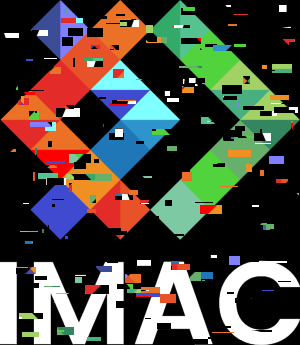
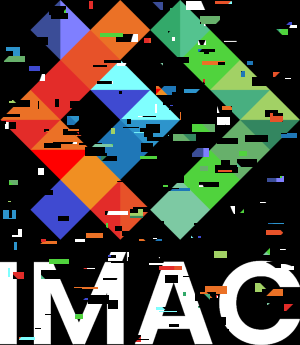
add convolution

diff --git a/src/main.cpp b/src/main.cpp
@@ -170,14 +170,14 @@ void circle(sil::Image &image, int const &rayon, float const &thickess, int cons
     }
 }
 
-void rosace(sil::Image &image, int const &rayon, int const &thinkness)
+void rosace(sil::Image &image, int const &rayon, int const &thinkness, int nbCircle)
 {
     int const center_x = image.width() / 2;
     int const center_y = image.height() / 2;
     circle(image, rayon, thinkness, center_x, center_y);
-    for (int i{0}; i < 6; i++)
+    for (int i{0}; i < nbCircle; i++)
     {
-        circle(image, rayon, thinkness, center_x + rayon * std::cos(i * (M_PI / 3)), center_x + rayon * std::sin(i * (M_PI / 3)));
+        circle(image, rayon, thinkness, center_x + rayon * std::cos(i * (M_PI * 2 / nbCircle)), center_x + rayon * std::sin(i * (M_PI * 2 / nbCircle)));
     }
 }
 
@@ -333,15 +333,113 @@ void dithering(sil::Image &image)
             float bayer_value = bayer_matrix_4x4[y % bayer_n][x % bayer_n];
             float output_color = origin_color + (1 * bayer_value);
 
-            if (output_color <  1/2.f){
-                image.pixel(x,y) = glm::vec3(0);
-            }else{
-                image.pixel(x,y) = glm::vec3(1);
+            if (output_color < 1 / 2.f)
+            {
+                image.pixel(x, y) = glm::vec3(0);
             }
-            
+            else
+            {
+                image.pixel(x, y) = glm::vec3(1);
+            }
         }
     }
 }
+
+[[nodiscard]] sil::Image convolution(sil::Image const &image, std::vector<std::vector<float>> const& kernel)
+{
+    sil::Image blurImage{image};
+
+    float kernelTotal{0};
+    for (std::vector<float> line : kernel)
+    {
+        for (float number : line)
+        {
+            kernelTotal += number;
+        }
+    }
+
+    for (int x{0}; x < image.width(); x++)
+    {
+        for (int y{0}; y < image.height(); y++)
+        {
+            // prendre les 9 pixels autour de mon pixel x,y dans image
+            // et faire la couleur moyenne
+
+            glm::vec3 color{0};
+            int count{0};
+            int debug{-(static_cast<int>(kernel.size()) / 2)};
+            for (int i{-(static_cast<int>(kernel.size()) / 2)}; i < static_cast<int>(kernel.size()); i++)
+            {
+                for (int j{-(static_cast<int>(kernel[0].size()) / 2)}; j < static_cast<int>(kernel[0].size()); j++)
+                {
+                    int coordX = x + i;
+                    int coordY = y + j;
+                    if (coordX < image.width() && coordX > 0 && coordY < image.height() && coordY > 0 && j + static_cast<int>(kernel[0].size()) / 2 < kernel[0].size() && i + static_cast<int>(kernel.size()) / 2 < kernel.size())
+                    {
+                        color += image.pixel(coordX, coordY) * kernel.at(i + static_cast<int>(kernel.size()) / 2).at(j + static_cast<int>(kernel[0].size()) / 2);
+                    }
+                    else
+                    {
+                        blurImage.pixel(x, y) += glm::vec3(0);
+                    }
+                }
+            }
+            if (kernelTotal != 0)
+            {
+                color = color / kernelTotal;
+            }
+            blurImage.pixel(x, y) = color;
+        }
+    }
+    return blurImage;
+}
+
+std::vector<std::vector<float>> generateKernelBlurVertical(int size)
+{
+    std::vector<std::vector<float>> kernel(size, std::vector<float>(1, 1.f / size));
+    return kernel;
+}
+
+std::vector<std::vector<float>> generateKernelBlurHorizontal(int size)
+{
+    std::vector<std::vector<float>> kernel(1, std::vector<float>(size, 1.f / size));
+    return kernel;
+}
+
+[[nodiscard]] sil::Image differenceGaussian(sil::Image const& image , int sigma1, int sigma2){
+    sil::Image gaussian1{image};
+    sil::Image gaussian2{image};
+    sil::Image result{image.width() , image.height()};
+
+    gaussian1 = convolution(gaussian1, generateKernelBlurHorizontal(sigma1));
+    gaussian1 = convolution(gaussian1, generateKernelBlurVertical(sigma1));
+
+    gaussian2 = convolution(gaussian2, generateKernelBlurHorizontal(sigma2));
+    gaussian2 = convolution(gaussian2, generateKernelBlurVertical(sigma2));
+
+    for (int x{0}; x < image.width(); x++)
+    {
+        for (int y{0}; y < image.height(); y++)
+        {
+            result.pixel(x,y)=  gaussian1.pixel(x,y) - gaussian2.pixel(x,y);
+        }
+    }
+    //tout les pixels qui sont noir on les met en blanc et les pixels en nuance de gris en noir
+    for (glm::vec3 &color : result.pixels())
+    {
+        if (color.r < 0.019f)
+        {
+            color = glm::vec3(1);
+        }
+        else
+        {
+            color = glm::vec3(0);
+        }
+    }
+    
+    return result;
+}
+
 
 int main()
 {
@@ -410,7 +508,7 @@ int main()
     }
     {
         sil::Image blackImage{500, 500};
-        rosace(blackImage, 100, 500);
+        rosace(blackImage, 100, 500, 6);
         blackImage.save("output/exercice13.png");
     }
     {
@@ -439,5 +537,48 @@ int main()
         sil::Image copy{photo};
         dithering(copy);
         copy.save("output/exercice18.png");
+    }
+    {
+        std::vector<std::vector<float>> kernelOutline = {
+            {-1, -1, -1},
+            {-1, 8, -1},
+            {-1, -1, -1}};
+
+        std::vector<std::vector<float>> kernelBlur3x3 = {{1, 2, 1},
+                                                         {2, 4, 2},
+                                                         {1, 2, 1}};
+
+        std::vector<std::vector<float>> kernelEmboss = {{-2, -1, 1},
+                                                        {-1, 1, 1},
+                                                        {0, 1, 2}};
+
+        std::vector<std::vector<float>> kernelSharpen = {{0, -1, 0},
+                                                         {-1, 5, 1},
+                                                         {0, -1, 0}};
+
+        std::vector<std::vector<float>> kernelBlur5x5 = {{1, 4, 6, 4, 1},
+                                                         {4, 16, 24, 16, 4},
+                                                         {6, 24, 36, 24, 6},
+                                                         {4, 16, 24, 16, 4},
+                                                         {1, 4, 6, 4, 1}};
+
+        sil::Image copy{image};
+        sil::Image blurImage{convolution(copy, kernelBlur5x5)};
+        blurImage.save("output/exercice19.png");
+    }
+
+    {
+        // Separation matrix (more efficient)
+        std::vector<std::vector<float>> kernelBlurHorizontal{{1, 1, 1}};
+        std::vector<std::vector<float>> kernelBlurVertical {{1}, {1}, {1}};
+        sil::Image blurImage{convolution(image, kernelBlurHorizontal)};
+        blurImage = convolution(blurImage, kernelBlurVertical);
+        blurImage.save("output/exercice19FiltreSepare.png");
+    }
+
+    {
+
+        sil::Image imageDifference{differenceGaussian(photo, 1, 5)};
+        imageDifference.save("output/exercice19Difference.png");
     }
 }
